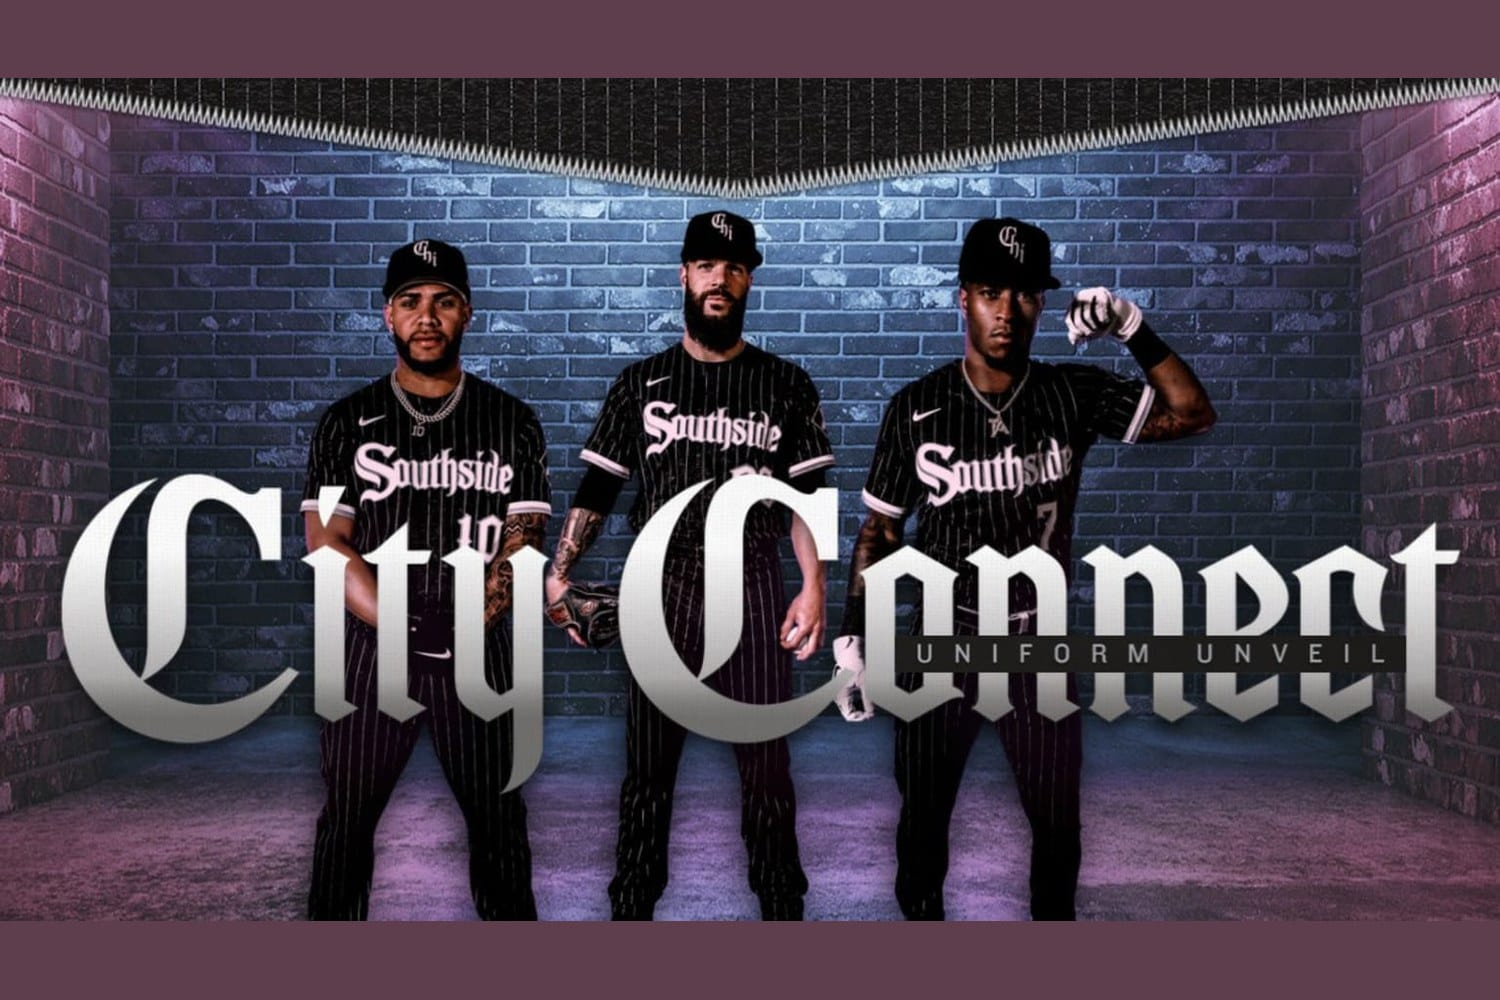
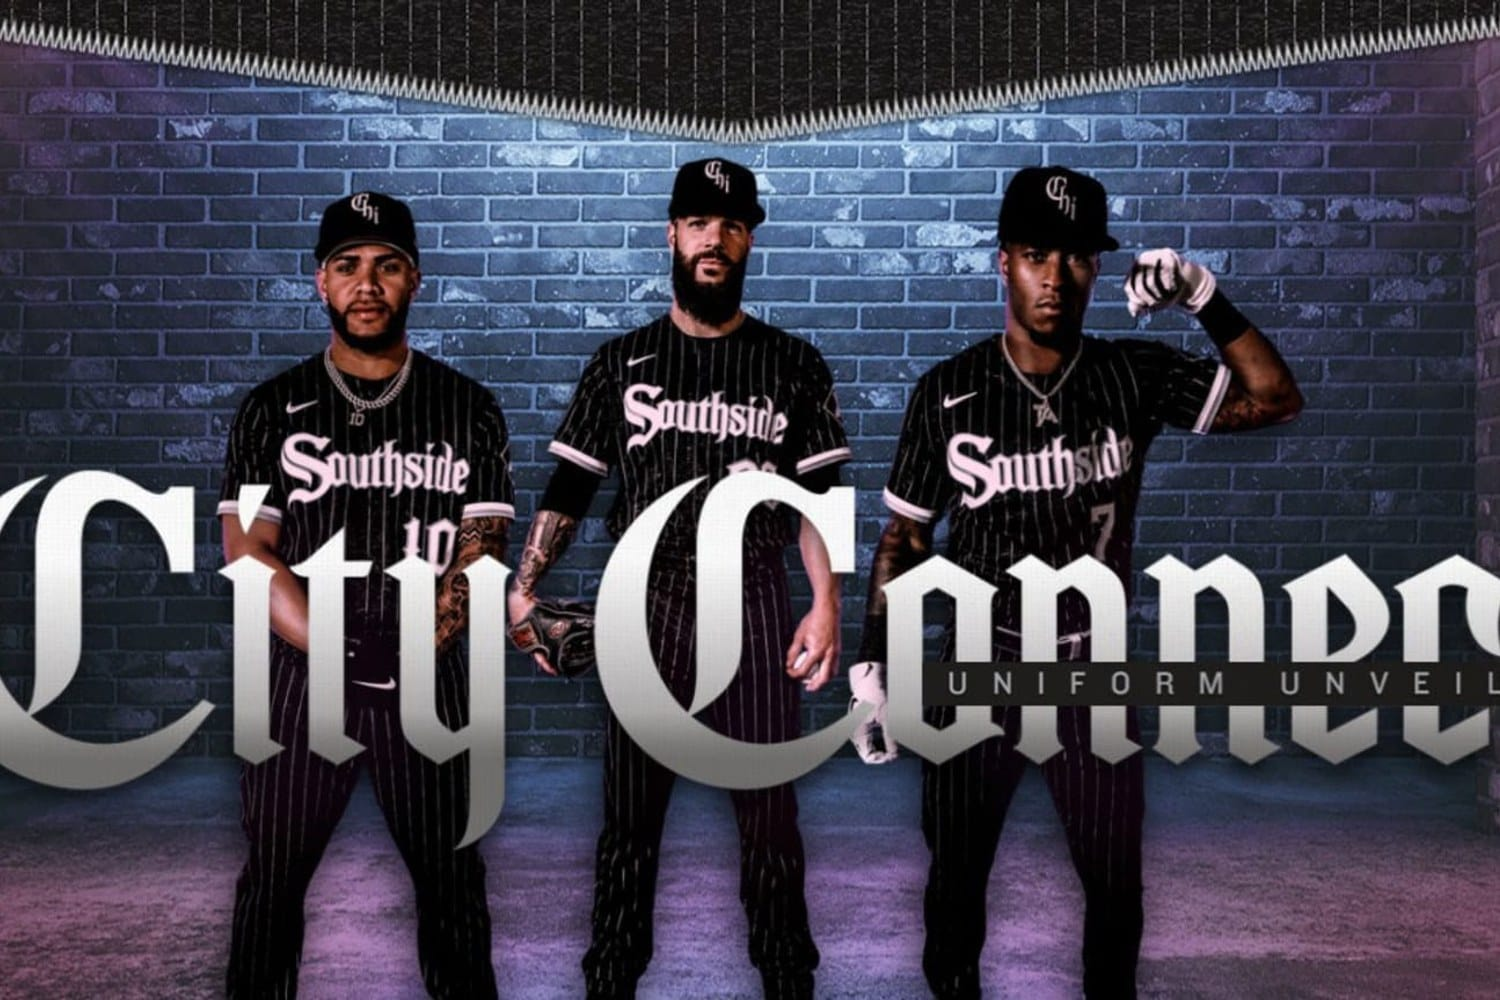
Fill the frame on the Southside cover and add it as a hero
Recropped to cover so there is no letterboxing top and bottom, and
reused the same image as the in-body hero. Credit now names both the
White Sox and MLB.

diff --git a/content/posts/white-sox-southside-city-connect-tim-anderson.md b/content/posts/white-sox-southside-city-connect-tim-anderson.md
@@ -14,6 +14,11 @@ league: mlb
 teams: ["chicago-white-sox"]
 ---
 
+<div style="margin: 0 0 1.75em;">
+<img src="/images/posts/white-sox-southside-city-connect-tim-anderson/cover-players.jpg" alt="Chicago White Sox players including Tim Anderson wearing the Southside City Connect uniforms at the unveil" style="width: 100%; border-radius: 12px;" />
+<div style="font-size: 0.72em; color: #999; margin-top: 6px; text-align: center;">City Connect uniform unveil image via the Chicago White Sox and MLB</div>
+</div>
+
 Tim Anderson announced his retirement on Monday after ten major league seasons, and the White Sox answered with the exact right gesture. They are honoring him before their September 17 home game against the Detroit Tigers, and for that game they are bringing the original charcoal "Southside" City Connect out of storage for the first time all season.
 
 We have been tracking every White Sox uniform this year, and the Southside has not appeared once. Not a single game. That is what makes this worth writing about.
@@ -86,4 +91,4 @@ The team has announced a pregame ceremony on September 17, not a Hall of Fame in
 - [2026 MLB Uniform Tracker](/stories/mlb-uniform-tracker-2026) — what every team wore last night
 - [White Sox Uniform Calendar](/mlb-tracker/white-sox) — every jersey they have actually worn this season
 
-*Retirement and ceremony details via the Chicago White Sox and MLB. Uniform usage counts are our own, from the ColorWay Sports 2026 MLB uniform tracker. Cover image is the City Connect uniform unveil graphic via the Chicago White Sox; jersey image via Fanatics. ColorWay Sports is an independent design site and is not affiliated with, endorsed by, or sponsored by the Chicago White Sox or Major League Baseball.*
+*Retirement and ceremony details via the Chicago White Sox and MLB. Uniform usage counts are our own, from the ColorWay Sports 2026 MLB uniform tracker. Cover and hero image is the City Connect uniform unveil graphic, via the Chicago White Sox and Major League Baseball. Jersey image via Fanatics. ColorWay Sports is an independent design site and is not affiliated with, endorsed by, or sponsored by the Chicago White Sox or Major League Baseball.*
